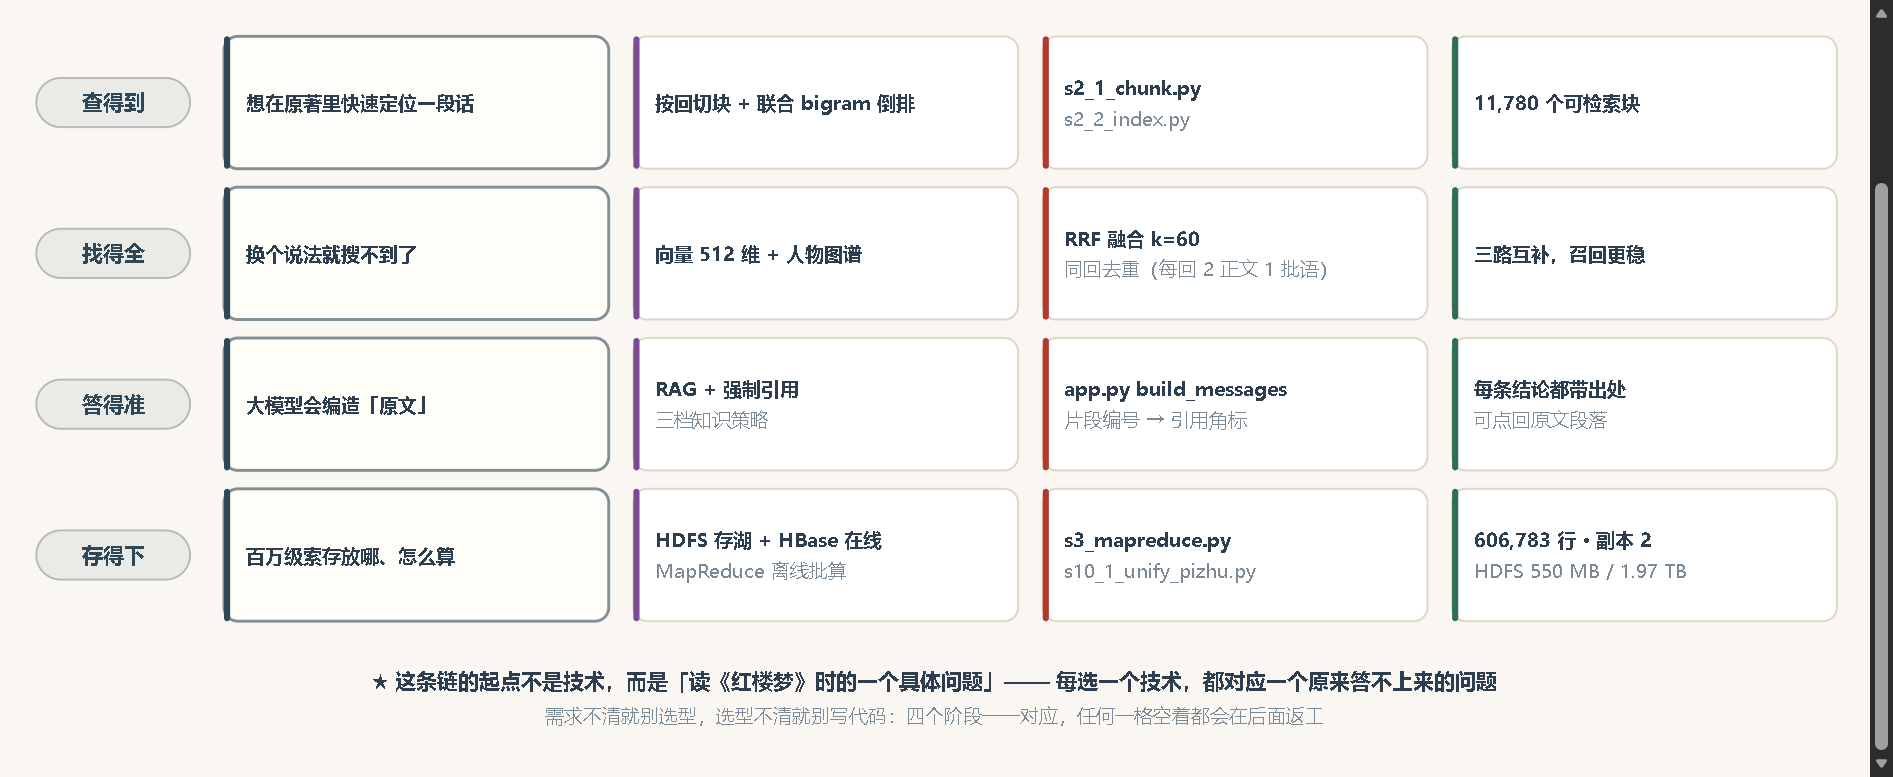
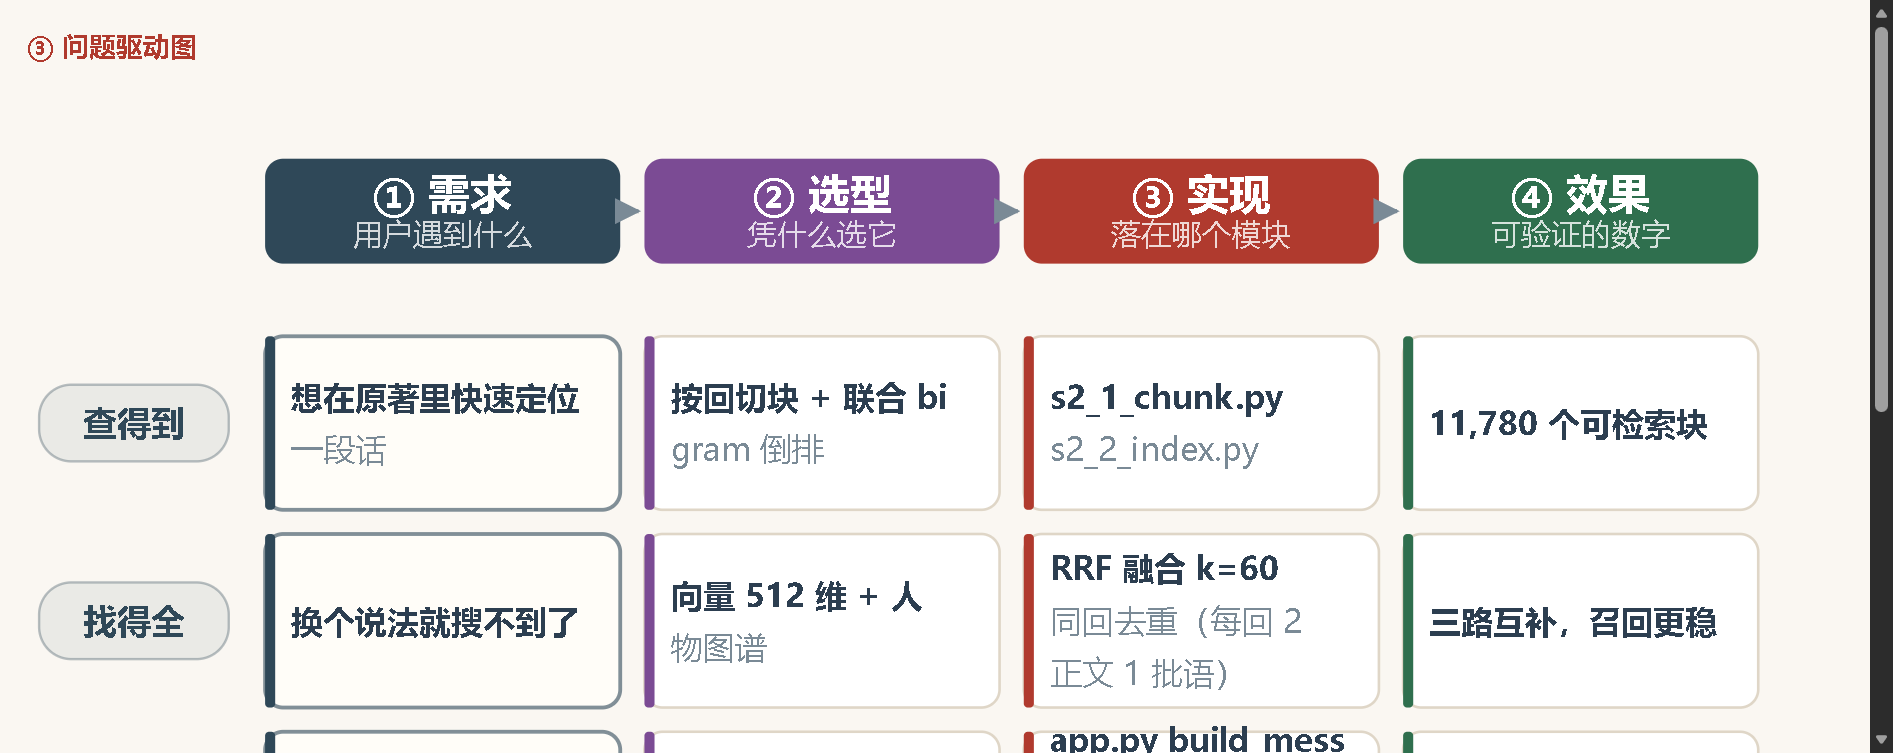
问题驱动图字号放大到与引擎对比图同档（15~20）
按用户要求，把「问题驱动：为什么这么设计」的图放大到与引擎对比图同样大小。

调整：
- 画布 1180 → 980（缩放比 1.0 → 1.20，+20%）
- 字号：表头 16.5→20 / 副标题 11.5→15 / 卡片正文 12.5→15.5
        行标签 13.5→17 / 底部说明 13.5→17 与 12.5→15.5
- 卡片 250x86 → 196x112，四列重排，行标签列 118→112

放大后卡片文字放不下，实现了一套自动折行：
1) tokenize：中文按单字、ASCII 整段不拆（避免 bigram 断成 bi+gram）
2) 长 ASCII 串允许在空格处折行
3) 防孤字：末行不足 3 个字符时，从上一行搬 token 过来
   （解决「…引用角/标」「…原文/」」这类单字挂行）

改了一条文案：「向量 512 维 + 人物图谱」→「512 维向量 + 图谱」，
因「人物」二字正好卡在折行边界会被切开。

几何自检：
  画布 980x626，矩形底边 508 / 右边 942 均未越界 ✅
  文字越界 0 处 ✅
  卡片文字过宽 0 处 ✅

两张图现在字号对齐：问题驱动图 15~20，引擎对比图 15~23。

diff --git a/web/public/js/diagrams_simple.js b/web/public/js/diagrams_simple.js
@@ -230,15 +230,15 @@ export function renderBuildSequenceDiagram() {
    4 行：查得到 / 找得全 / 答得准 / 存得下
    ============================================================ */
 export function renderQuestionDrivenDiagram() {
-  const W = 1180;
-  const ROW_L = 118;             // 左侧行标签列宽（要放下 3 个汉字 + 内边距）
-  const COL_W = 250;
-  const GAP = 16;
+  const W = 980;
+  const ROW_L = 112;             // 左侧行标签列宽（要放下 3 个汉字 + 内边距）
+  const COL_W = 196;
+  const GAP = 12;
   const X0 = ROW_L + 10;
-  const headY = 40, headH = 44;
-  const cardY0 = 112, cardH = 86, cardGap = 12;
+  const headY = 40, headH = 52;
+  const cardY0 = 128, cardH = 86, cardGap = 12;
   const nRows = 4;
-  const H = cardY0 + nRows * cardH + (nRows - 1) * cardGap + 84;
+  const H = cardY0 + nRows * cardH + (nRows - 1) * cardGap + 118;
 
   const stages = [
     { title: '① 需求', sub: '用户遇到什么', c: C.front, bg: C.frontBg },
@@ -261,7 +261,7 @@ export function renderQuestionDrivenDiagram() {
       tag: '找得全',
       cells: [
         ['换个说法就搜不到了'],
-        ['向量 512 维 + 人物图谱'],
+        ['512 维向量 + 图谱'],
         ['RRF 融合 k=60', '同回去重（每回 2 正文 1 批语）'],
         ['三路互补，召回更稳'],
       ],
@@ -287,20 +287,110 @@ export function renderQuestionDrivenDiagram() {
   ];
 
   // 卡片：1~2 行文字，垂直居中
+  // ---- 文字宽度估算 & 自动折行 ----
+  // 中文按 1em，ASCII 按 0.55em（与实测渲染基本吻合）
+  const textW = (t, fs) => {
+    let w = 0;
+    for (const ch of t) {
+      w += /[\u4e00-\u9fff\uff00-\uffef「」『』（）：，、—→]/.test(ch) ? fs : fs * 0.55;
+    }
+    return w;
+  };
+  /**
+   * 按可用宽度把一行拆成多行
+   * ------------------------------------------------------------------
+   * 关键：不能把英文单词 / 数字切成两半（"bigram" 不能变成 "bi"+"gram"）。
+   * 做法：先把文本切成「不可再分的 token」——连续 ASCII 视作一个整体，
+   *       中文按单字。再按 token 累加宽度折行。
+   */
+  const tokenize = (t) => {
+    const out = [];
+    let buf = '';
+    const flush = () => {
+      if (!buf) return;
+      // ASCII 段若含空格，按空格再切（保留空格在前缀），
+      // 这样长英文串可以在空格处折行，但不会切在单词内部
+      if (buf.includes(' ')) {
+        const parts = buf.split(' ');
+        parts.forEach((p2, i2) => {
+          if (p2) out.push((i2 > 0 ? ' ' : '') + p2);
+        });
+      } else {
+        out.push(buf);
+      }
+      buf = '';
+    };
+    for (const ch of t) {
+      if (/[\x20-\x7e]/.test(ch)) {
+        buf += ch;
+      } else {
+        flush();
+        out.push(ch);            // 中文/全角字符按单字
+      }
+    }
+    flush();
+    return out;
+  };
+
+  const wrapText = (t, fs, maxW) => {
+    if (textW(t, fs) <= maxW) return [t];
+    const toks = tokenize(t);
+    const lines = [];
+    let cur = '';
+    for (const tk of toks) {
+      const cand = cur + tk;
+      if (cur && textW(cand, fs) > maxW) {
+        lines.push(cur);
+        cur = tk === ' ' ? '' : tk;
+      } else {
+        cur = cand;
+      }
+    }
+    if (cur.trim()) lines.push(cur);
+    if (!lines.length) return [t];
+
+    // ---- 避免孤字：末行太短时，从上一行匀 token 过来 ----
+    // 例如「向量 512 维 + 人 / 物图谱」→「向量 512 维 / + 人物图谱」
+    // 判据用「末行字符数」而非像素宽度，避免单位混用
+    const MIN_CHARS = 3;                 // 末行至少 3 个字符
+    let guard = 0;
+    while (lines.length >= 2 && guard++ < 6) {
+      const last = lines[lines.length - 1];
+      if ([...last.replace(/\s/g, '')].length >= MIN_CHARS) break;
+      const prev = lines[lines.length - 2];
+      const ptoks = tokenize(prev);
+      if (ptoks.length < 2) break;
+      const moved = ptoks.pop();
+      const trial = moved + last;
+      if (textW(trial, fs) > maxW) break;          // 搬完会超宽，放弃
+      lines[lines.length - 2] = ptoks.join('');
+      lines[lines.length - 1] = trial;
+    }
+    return lines;
+  };
+
   const card = (x, y, lines, color, emphasize = false) => {
-    const n = lines.length;
-    const first = y + cardH / 2 - (n - 1) * 10 + 5;
+    const FS = 15.5, MAXW = COL_W - 24;      // 左右各留 13
+    // 每条按宽度自动折行，再展平
+    const flat = [];
+    lines.forEach((t, idx) => {
+      wrapText(t, FS, MAXW).forEach((seg, k) => {
+        flat.push({ t: seg, muted: idx > 0 || k > 0 });
+      });
+    });
+    const n = flat.length;
+    const first = y + cardH / 2 - (n - 1) * 13 + 6;
     return `
     ${box(x, y, COL_W, cardH, emphasize ? '#fffdf8' : '#ffffff',
           emphasize ? color + '99' : '#dfd6c7', 9, emphasize ? 1.9 : 1.3)}
-    ${box(x, y, 4, cardH, color, color, 2, 0)}
-    ${lines.map((t, i) => txt(x + 14, first + i * 20, t, 12.5,
-      i === 0 ? C.text : C.muted, i === 0 ? 600 : 400, 'start')).join('')}`;
+    ${box(x, y, 5, cardH, color, color, 2, 0)}
+    ${flat.map((o, i) => txt(x + 13, first + i * 26, o.t, FS,
+      o.muted ? C.muted : C.text, o.muted ? 400 : 600, 'start')).join('')}`;
   };
 
   const rowTag = (y, tag, color) => `
-    ${box(6, y + cardH / 2 - 16, ROW_L - 18, 32, color + '14', color + '55', 16, 1.2)}
-    ${txt(6 + (ROW_L - 18) / 2, y + cardH / 2 + 5, tag, 13.5, color, 700)}`;
+    ${box(6, y + cardH / 2 - 19, ROW_L - 14, 38, color + '14', color + '55', 16, 1.2)}
+    ${txt(6 + (ROW_L - 14) / 2, y + cardH / 2 + 6, tag, 17, color, 700)}`;
 
   return `
 <svg id="qdriveSvg" viewBox="0 0 ${W} ${H}" xmlns="http://www.w3.org/2000/svg"
@@ -316,8 +406,8 @@ export function renderQuestionDrivenDiagram() {
   ${stages.map((st, i) => {
     const x = X0 + i * (COL_W + GAP);
     return `${box(x, headY, COL_W, headH, st.c, st.c, 9, 0)}
-      ${txt(x + COL_W / 2, headY + 21, st.title, 16.5, '#ffffff', 700)}
-      ${txt(x + COL_W / 2, headY + 37, st.sub, 11.5, '#ffffffcc', 400)}
+      ${txt(x + COL_W / 2, headY + 25, st.title, 20, '#ffffff', 700)}
+      ${txt(x + COL_W / 2, headY + 43, st.sub, 15, '#ffffffcc', 400)}
       ${i < 3 ? `<line x1="${x + COL_W + 2}" y1="${headY + headH / 2}"
             x2="${x + COL_W + GAP - 3}" y2="${headY + headH / 2}"
             stroke="${C.muted}" stroke-width="2" marker-end="url(#qdArrow)"/>` : ''}`;
@@ -332,10 +422,10 @@ export function renderQuestionDrivenDiagram() {
   }).join('')}
 
   <!-- 底部主线说明 -->
-  ${txt(W / 2, H - 40, '★ 这条链的起点不是技术，而是「读《红楼梦》时的一个具体问题」—— 每选一个技术，都对应一个原来答不上来的问题',
-    13.5, C.text, 600)}
-  ${txt(W / 2, H - 18, '需求不清就别选型，选型不清就别写代码：四个阶段一一对应，任何一格空着都会在后面返工',
-    12.5, C.muted, 400)}
+  ${txt(W / 2, H - 48, '★ 这条链的起点不是技术，而是「读《红楼梦》时的一个具体问题」—— 每选一个技术，都对应一个原来答不上来的问题',
+    17, C.text, 600)}
+  ${txt(W / 2, H - 20, '需求不清就别选型，选型不清就别写代码：四个阶段一一对应，任何一格空着都会在后面返工',
+    15.5, C.muted, 400)}
 </svg>`;
 }
 
